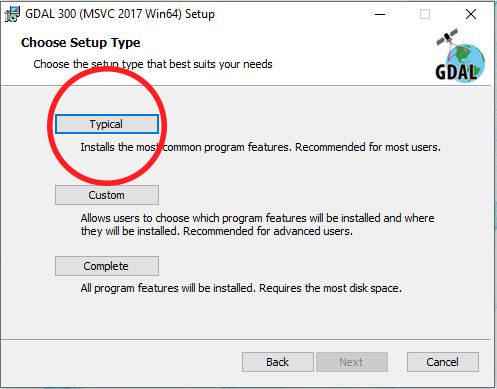
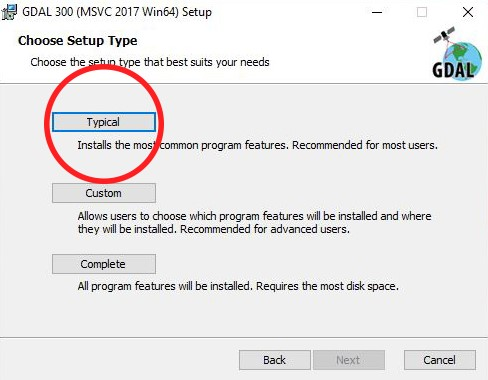
GIS article WIP
GIS

Changed region(s): [[0.0307, 0.0868, 0.8914, 0.7816], [0.0, 0.0, 1.0, 1.0]]

diff --git a/html/GIS.html b/html/GIS.html
@@ -128,13 +128,14 @@
                     <a href="../Images/bg/WindVelocitySphericalO.jpg">
                         <img src="../Images/bg/WindVelocitySphericalO.jpg" class="ImageMesa">
                     </a>
+                    <span class="Small">
+                            Imagen producida en <a href="https://www.rhino3d.com/">Rhinoceros3d</a> mediante el plugin de Grasshopper GHopperGIS (desarrollado para <a href="https://www.echeverrimontes.com/">PEM</a>) y visualizada a 
+                            través de <a href="https://www.food4rhino.com/app/tarsier">Tarsier</a>
+                    </span>
                 </p>
 
                 <p class="MesaUno">
-                    <span class="Small">
-                        Imagen producida en <a href="https://www.rhino3d.com/">Rhinoceros3d</a> mediante el plugin de Grasshopper GHopperGIS (desarrollado para <a href="https://www.echeverrimontes.com/">PEM</a>) y visualizada a 
-                        través de <a href="https://www.food4rhino.com/app/tarsier">Tarsier</a></span>
-                    <br>
+                    
                     Esta imagen es la visualizacion de datos extraidos de un archivo grib proveniente de la <a href="https://nomads.ncep.noaa.gov">NCEP</a>. 
 
                     <br>
@@ -170,41 +171,70 @@
                     <a href="../Images/GIS/GUNGIS_1.jpg">
                         <img src="../Images/GIS/GUNGIS_1.jpg" class="ImageMesa">
                     </a>
+                    <span class="Small">Imagen del viewport de Rhino3d</span>
+                    <br>
+                    <br>
                     <span class="Bold">Vista 3D de calle 12c con 4a y sus alrededores (Bogotá)</span>
                     <br>
                     <br>
                     <a href="../Images/GIS/HotelGIS_1.jpg">
                         <img src="../Images/GIS/HotelGIS_1.jpg" class="ImageMesa">
                     </a>
+                    <span class="Small">Imagen del viewport de Rhino3d</span>
                 </p>
 
                 <p class="MesaUno">
-                    Una vez creado el algoritmo que permite modificar los elementos, se crea un FEM (Finite Element Model) o Modelo de Elementos Finitos para poder correr una simulación estructural, FEA
-                    (Finite Element Analysis), o Análisis de Elementos Finitos. Los elementos finitos son: beams (vigas) que se modelan como líneas y shells (conchas) que se modelan como meshes/mallas. 
+                    Colombia, en especial Bogotá tiene un excelente repositorio de <a href="https://datosabiertos.bogota.gov.co">datos abiertos</a>, en el que se puede encontrar información de edificaciones, vías, andenes,
+                    separadores, cotas de nivel, entre otras.  
                     <br>
-                    Cuando se esté modelonda el FEM es importante que todos los elementos coincidan, es decir; sí se tiene una viga (beam) soportando una placa (shell), es fundamental que los puntos que 
-                    componen cada uno de estos elementos coincidan.
-                    <br>
-                    <br>
-                    <span class="Bold">A continuación, se puede ver el mesh cuyos vértices coinciden con los vértices de la línea:</span>
+                    A partir de esta información ha sido fácil construir modelos de contexto para diferentes proyectos.
                     <br>
                     <br>
-                    <img src="../Images/Mesa/FEM.jpg" class="ImageMesa">
+                    <span class="Bold">
+                        Tanto el plugin (GHopperGIS) como otras operaciones aplicadas en los proyectos mencionados se basan en una biblioteca <a href="https://gdal.org/license.html">Open Source</a> llamada 
+                        <a href="https://gdal.org/">GDAL</a>. 
+                    </span>
+                    <br>
+                    <br>
+                    <img src="../Images/GIS/GDALLogoColor.svg" style="display: block;
+                    margin-left: auto;
+                    margin-right: auto;
+                    width: 20%;">
                 </p>
 
                 <p class="MesaUno">
-                    El procedimiento para cumplir este requerimiento es el siguiente:
-                    <br>
-                    Crear una superficie a partir del rectángulo original que va a simular nuestra lámina de mármol, dividir la superficie en puntos,
-                    ya que la lámina queda en contácto con vigas, adicionar los puntos que componen las vigas (en este caso se decidió subdividir la línea original en más puntos para tener mayor
-                    exactitud en el análisis estructural) a los puntos de la subdivisión de la superficie y construir una malla/mesh a partir de estos (a través de una triangulación de Delaunay) utilizando
-                    el componente Delaunay Mesh de Grasshopper.
+                    La biblioteca provee un modelo unificado para manejar datos de tipo raster (a través de GDAL) y datos de tipo vector (a través de OGR).
+                    GDAL incluye tanto "bindings" para lenguajes de programación (C++, C, C#, Python, entre otros) como utilidades de traducción de formatos y procesamiento de datos para la consola. Es utilizada por 
+                    <a href="https://www.google.com/earth/">Google Earth</a>, <a href="https://www.arcgis.com/index.html">ArcGIS</a>, <a href="https://en.wikipedia.org/wiki/GDAL#Software_using_GDAL/OGR">entre otros</a>.
                     <br>
                     <br>
-                    <span class="Bold">Concha cuyos vértices coinciden con los de la viga:</span>
+                    Para instalar GDAL como herramienta de consola para Windows:
+                    <br>
+                    Entrar a <a href="https://www.gisinternals.com/release.php">GISInternals</a>.
+                    <br>
+                    Escoger de acuerdo a arquitectura y compilador (sí no se sabe y el computador es relativamente nuevo: Compiler: MSVC 2017, Arch: x64). 
+                    <br>
+                    Entrar al link que está en la sección de Downloads.
                     <br>
                     <br>
-                    <img src="../Images/Mesa/FEMUno.jpg" class="ImageMesa">
+                    <img src="../Images/GIS/GISInternals.JPG" class="ImageMesa">
+                    <br>
+                    <br>
+                    Buscar con Control-F: "Generic installer for the GDAL core components."
+                    <br>
+                    <br>
+                    <img src="../Images/GIS/GISInternalsDownload.JPG" class="ImageMesa">
+                    <br>
+                    <br>
+                    Bajar y instalar con configuración: Typical.
+                    <br>
+                    <br>
+                    <img src="../Images/GIS/GDALInstall.JPG" style="display: block;
+                    margin-left: auto;
+                    margin-right: auto;
+                    width: 40%;">
+                    <br>
+                    <br>
                 </p>
 
                 <p class="MesaUno">
